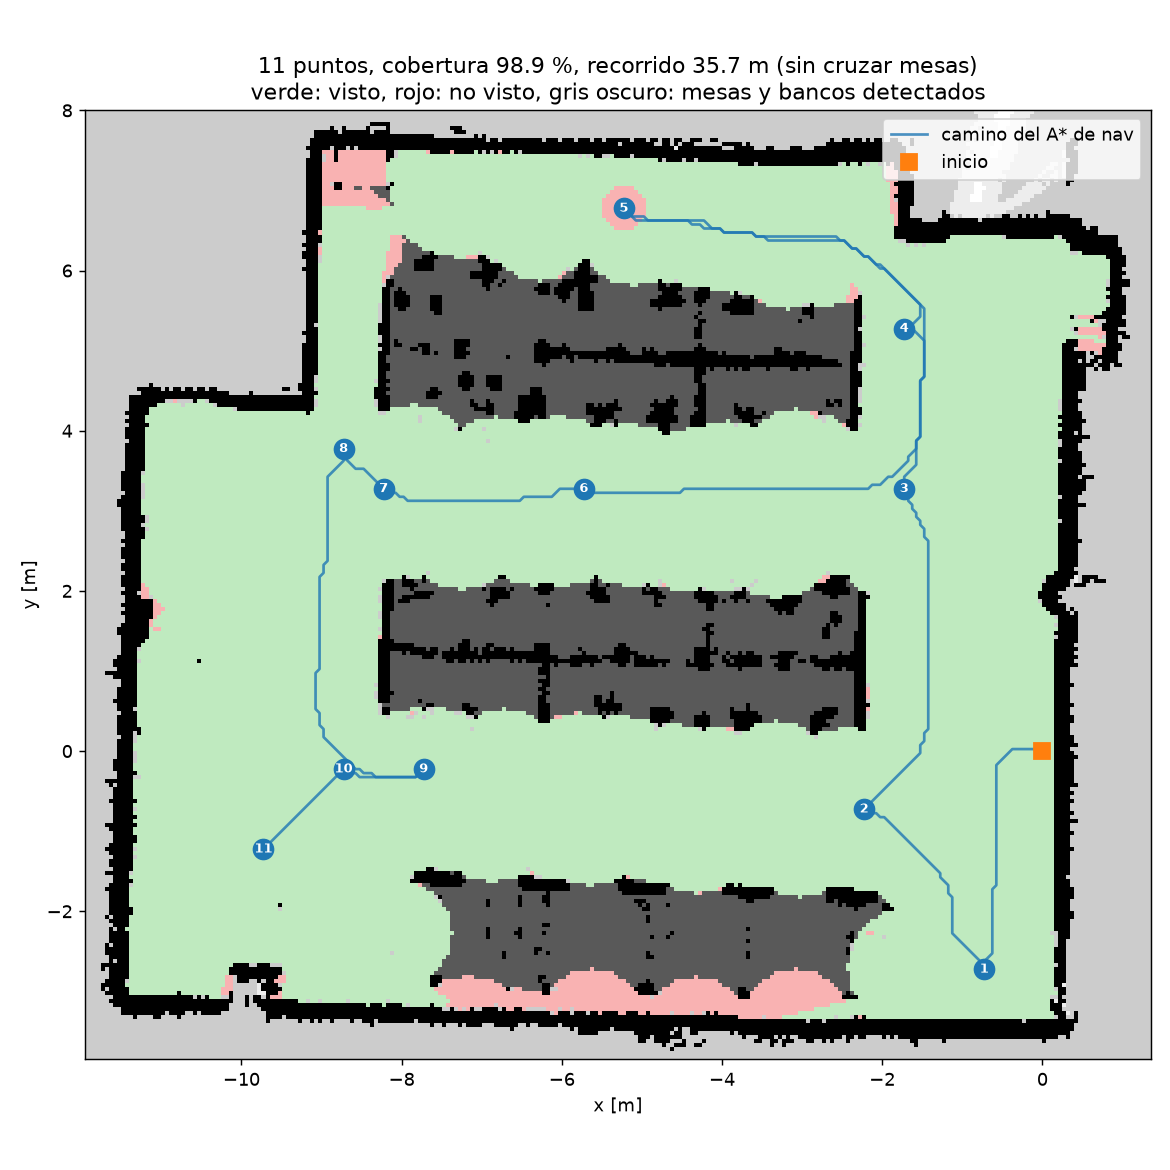
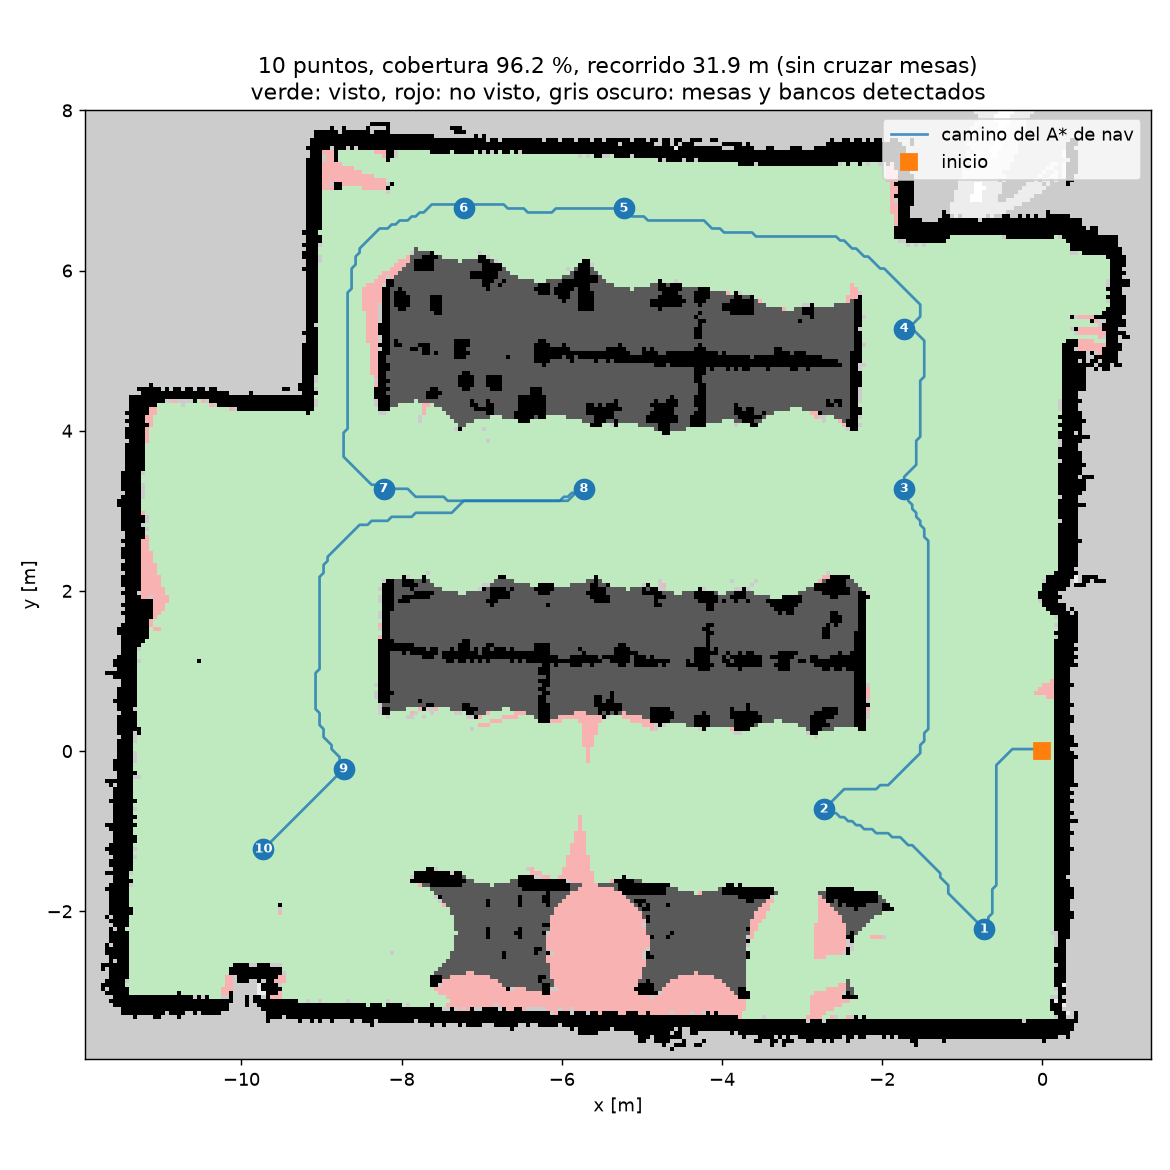
Keep the top-left passage open and approach cones from the nearest free spot
Clutter radius back to 0.60; viewpoint clearance also applies to approach poses.

diff --git a/mission/mission/core/cone_locator.py b/mission/mission/core/cone_locator.py
@@ -217,24 +217,39 @@ def open_segment(costmap: Costmap, a, cone) -> bool:
     return bool(inside.all() and (costmap.clearance[rows, cols] >= radius).all())
 
 
-def approach_pose(cone, pose: Pose2D, costmap: Costmap, reachable: np.ndarray, config: LocatorConfig):
+def approach_pose(cone, pose: Pose2D, costmap: Costmap, reachable: np.ndarray, config: LocatorConfig,
+                  clearance: float = 0.0):
     """Pose para quedar frente al cono, o None si no hay ninguna.
 
-    Candidatos en anillos alrededor del cono, entre approach_distance y
-    approach_max_distance. Se queda con los alcanzables desde el robot desde
-    los que podría avanzar en línea recta hasta el cono (`open_segment`), y
-    elige el de camino más corto desde el robot. El ángulo mira al cono.
+    Candidatos en anillos alrededor del cono, cada 15 cm desde
+    approach_distance hasta approach_max_distance. Valen los alcanzables desde
+    el robot, con al menos `clearance` de holgura a los obstáculos (la misma
+    regla que los puntos de observación: no pararse en pasillos angostos, como
+    entre bancos) y desde los que podría avanzar en línea recta hasta el cono
+    (`open_segment`). Se usa el anillo más cercano al cono que tenga alguno, y
+    en él el de camino más corto desde el robot: un cono en un pasillo angosto
+    se aproxima desde la boca del pasillo. El ángulo mira al cono.
     """
+    for radius in np.arange(config.approach_distance, config.approach_max_distance + 1e-9, 0.15):
+        goal = _best_on_ring(cone, radius, pose, costmap, reachable, config, clearance)
+        if goal is not None:
+            return goal
+    return None
+
+
+def _best_on_ring(cone, radius, pose, costmap, reachable, config, clearance):
+    """El mejor candidato a `radius` del cono, o None."""
     grid = costmap.grid
     candidates = []
-    for radius in np.linspace(config.approach_distance, config.approach_max_distance, 3):
-        for angle in np.linspace(-math.pi, math.pi, config.approach_angles, endpoint=False):
-            x, y = cone[0] + radius * math.cos(angle), cone[1] + radius * math.sin(angle)
-            col, row = grid.world_to_grid(x, y)
-            if not (0 <= col < grid.width and 0 <= row < grid.height) or not reachable[row, col]:
-                continue
-            if open_segment(costmap, (x, y), cone):
-                candidates.append((x, y))
+    for angle in np.linspace(-math.pi, math.pi, config.approach_angles, endpoint=False):
+        x, y = cone[0] + radius * math.cos(angle), cone[1] + radius * math.sin(angle)
+        col, row = grid.world_to_grid(x, y)
+        if not (0 <= col < grid.width and 0 <= row < grid.height) or not reachable[row, col]:
+            continue
+        if costmap.clearance[row, col] < clearance:
+            continue
+        if open_segment(costmap, (x, y), cone):
+            candidates.append((x, y))
     if not candidates:
         return None
     distances = path_distances(costmap, reachable, [(pose.x, pose.y)] + candidates)[0, 1:]

diff --git a/mission/tests/test_cone_locator.py b/mission/tests/test_cone_locator.py
@@ -161,8 +161,8 @@ class ApproachTests(unittest.TestCase):
         cone = (4.0, 2.5)
         goal = approach_pose(cone, Pose2D(1.0, 2.5, 0.0), costmap, reachable, self.config)
         distance = math.hypot(goal.x - cone[0], goal.y - cone[1])
-        self.assertGreaterEqual(distance, self.config.approach_distance - 0.01)
-        self.assertLessEqual(distance, self.config.approach_max_distance + 0.01)
+        # Con lugar libre alrededor, el anillo más cercano.
+        self.assertAlmostEqual(distance, self.config.approach_distance, places=2)
         self.assertLess(goal.x, cone[0])                       # del lado del robot
         self.assertAlmostEqual(math.atan2(cone[1] - goal.y, cone[0] - goal.x), goal.yaw)
         row, col = costmap.cell(goal.x, goal.y)
@@ -180,6 +180,19 @@ class ApproachTests(unittest.TestCase):
         # El A* del navegador de la etapa B llega por la puerta (y > 3,5), no por el hueco.
         path = plan(costmap, (2.0, 1.5), (goal.x, goal.y))
         self.assertGreater(max(y for _, y in path), 3.5)
+
+    def test_cone_in_a_narrow_aisle_is_approached_from_its_mouth(self):
+        # Pasillo de 0,8 m de ancho y 1,4 m de fondo (como entre dos bancos), con
+        # el cono adentro. Con la holgura de 0,5 m no se para adentro del pasillo.
+        grid = room(7.0, 6.0, walls=[(2.9, 0.4, 3.0, 1.8), (3.8, 0.4, 3.9, 1.8)])
+        costmap, reachable = self.plan(grid, (1.0, 4.5))
+        cone = (3.45, 1.0)
+        goal = approach_pose(cone, Pose2D(1.0, 4.5, 0.0), costmap, reachable, self.config, clearance=0.5)
+        self.assertGreater(goal.y, 1.8)                        # afuera del pasillo
+        self.assertLessEqual(math.hypot(goal.x - cone[0], goal.y - cone[1]), self.config.approach_max_distance + 0.01)
+        # Sin holgura se mete en el pasillo, a la distancia mínima.
+        inside = approach_pose(cone, Pose2D(1.0, 4.5, 0.0), costmap, reachable, self.config)
+        self.assertLess(inside.y, 1.8)
 
     def test_unreachable_cone(self):
         # Cono en una sala cerrada sin puerta.

diff --git a/mission/tests/test_exploration.py b/mission/tests/test_exploration.py
@@ -413,10 +413,11 @@ class ClassroomTests(unittest.TestCase):
             index = cell_of(self.grid, x, y)
             self.assertTrue(occupied_cells(self.grid).ravel()[index], (x, y))
 
-    def test_robot_cannot_get_between_the_benches(self):
+    def test_no_viewpoint_between_the_benches(self):
         # Franja de los bancos de abajo, debajo de la ruta principal.
         benches = box(self.grid, -7.5, -3.4, -2.5, -1.9)
-        self.assertLess(np.count_nonzero(self.reachable & benches) * RESOLUTION ** 2, 0.6)
+        for x, y in self.plan.viewpoints:
+            self.assertFalse(benches[self.costmap.cell(x, y)], (x, y))
 
     def test_corridors_stay_open(self):
         # Pasillo central entre los bloques de mesas y pasillo entre el bloque
@@ -425,6 +426,19 @@ class ClassroomTests(unittest.TestCase):
             corridor = box(self.grid, *region)
             self.assertGreater(np.count_nonzero(self.reachable & corridor) / np.count_nonzero(corridor),
                                0.5, region)
+
+    def test_top_left_passage_stays_open(self):
+        # Con clutter_radius de 0,64 o más, una pata suelta en (-8,1; 7,4) se une al
+        # bloque de mesas de arriba y tapa el paso de arriba a la izquierda. No se
+        # notaba porque la zona de arriba se alcanza también por la derecha: se
+        # cierra la derecha con una pared y se exige que siga alcanzable.
+        closed = self.original.clone()
+        wall = box(closed, -2.4, 4.45, 0.6, 4.55)
+        closed.log_odds[wall], closed.observed[wall] = 4.0, True
+        nav = NavConfig.load_yaml(Path(__file__).resolve().parents[2] / "nav/config/real.yaml")
+        _, costmap = prepare_map(closed, nav.planner, self.config)
+        reachable = main_component(costmap.traversable, costmap.cell(0.0, 0.0))
+        self.assertTrue(reachable[costmap.cell(-5.0, 6.8)])
 
     def test_central_corridor_is_covered(self):
         corridor = box(self.grid, -5.5, 2.5, -4.0, 3.9) & self.plan.targets

diff --git a/mission/mission/ros/mission_node.py b/mission/mission/ros/mission_node.py
@@ -185,9 +185,10 @@ class MissionNode(Node):
             return False
         reachable = main_component(self.costmap.traversable, self.costmap.cell(*start))
         tracker = CoverageTracker(Visibility(self.grid, exploration), plan.coverable)
-        locator = self.config.locator
+        locator, clearance = self.config.locator, exploration.viewpoint_clearance
         self.mission = Mission(plan.viewpoints, tracker,
-                               lambda cone, pose: approach_pose(cone, pose, self.costmap, reachable, locator),
+                               lambda cone, pose: approach_pose(cone, pose, self.costmap, reachable, locator,
+                                                                clearance),
                                self.config.mission)
         self.viewpoints = plan.viewpoints
         self.get_logger().info(f'Exploration plan: {json.dumps(plan.summary())}')

diff --git a/mission/mission/core/config.py b/mission/mission/core/config.py
@@ -107,10 +107,10 @@ class LocatorConfig:
     prior: float = 0.20
     confirm_probability: float = 0.97
     drop_probability: float = 0.05
-    # Pose de aproximación: entre approach_distance y approach_max_distance del
-    # cono, transitable, alcanzable y con línea de vista libre hasta el cono.
+    # Pose de aproximación: lo más cerca posible desde approach_distance, en
+    # anillos cada 15 cm, hasta approach_max_distance (ver approach_pose).
     approach_distance: float = 0.45
-    approach_max_distance: float = 0.90
+    approach_max_distance: float = 1.50
     approach_angles: int = 24
 
 

diff --git a/docs/decisiones/014-exploracion-por-puntos-de-observacion.md b/docs/decisiones/014-exploracion-por-puntos-de-observacion.md
@@ -30,7 +30,7 @@ Detalle de A:
 - **Objetivo:** las celdas libres conectadas con la zona adonde puede ir el robot. Es donde puede estar un cono.
 - **Candidatos:** celdas transitables del mapa de costos de `nav` (el mismo que usa el navegador, así llega a todos), cada 0,5 m, con al menos `viewpoint_clearance` de holgura a los obstáculos.
 - **Visibilidad:** rayos en 2D sobre el mapa que se cortan en la primera pared o zona desconocida, entre 0,3 m (mínimo de la cámara de profundidad) y 3 m.
-- **Selección codiciosa:** primero el candidato que más área ve, después el que más área nueva agrega, hasta ver el 98 % de lo que se puede ver desde algún candidato o hasta que el próximo agregue menos de 0,5 m². Es la aproximación clásica a cubrir un conjunto, que es NP-difícil.
+- **Selección codiciosa:** primero el candidato que más área ve, después el que más área nueva agrega, hasta ver el 95 % de lo que se puede ver desde algún candidato o hasta que el próximo agregue menos de 0,5 m². Es la aproximación clásica a cubrir un conjunto, que es NP-difícil.
 - **Orden:** vecino más cercano desde la pose inicial y después 2-opt, con distancias por la zona transitable (Dijkstra sobre la grilla). El camino real lo calcula el A* del navegador.
 
 ## Mesas y bancos
@@ -52,7 +52,7 @@ Detalle de A (`prepare_map`):
 2. **Cierre morfológico de los muebles** con un disco de radio `clutter_radius`: dilatar y erosionar. Dos muebles a menos de dos radios se unen; un paso más ancho no se cierra. Las paredes no entran, así el pasillo entre un mueble y la pared no se tapa (sin separarlas, el pasillo entre el bloque de mesas de arriba y la pared izquierda se cerraba).
 3. **Relleno** de los huecos encerrados de menos de `clutter_max_hole`: el interior de un bloque, no el aula entera, que también está encerrada por paredes.
 4. Los bloques se marcan como ocupados en una copia del mapa: tapan la vista, no son piso donde buscar y el mapa de costos los infla. El mapa de `nav` no cambia.
-5. **Holgura:** el robot no se para a mirar a menos de `viewpoint_clearance` de un obstáculo.
+5. **Holgura:** el robot no se para a mirar, ni a acercarse a un cono (017), a menos de `viewpoint_clearance` de un obstáculo. Es lo que lo mantiene fuera de los pasillos angostos entre bancos que el cierre no tapa.
 
 Se comprobó que el A* de `nav`, sobre el mapa original, ya rodea los bloques detectados en los trayectos entre puntos: ningún punto de esos caminos cae en ellos.
 
@@ -84,7 +84,7 @@ Sin detectar mesas, con recorrido en línea recta (106 m² de piso como objetivo
 
 Lo que faltaba eran casi todo sombras de patas, y dos puntos caían entre los bancos.
 
-Calibración de la detección. Criterios, sin referencia externa: que los bloques no tapen pasillos (área transitable perdida fuera de los bloques), que el robot no pueda meterse entre los bancos (área alcanzable debajo de la ruta principal) y el tamaño del plan. Se probó con `viewpoint_clearance` 0,45 y 0,50 y en tres mapas del mismo bag (`intento3_corregido`, `intento3` y el replay E16): todos dan 9 a 11 puntos, 95 a 98 % de cobertura y 29 a 36 m. Con `viewpoint_clearance` 0,50 y `coverage_target` 0,97, en `intento3_corregido`:
+Calibración de la detección. Criterios, sin referencia externa: que los bloques no tapen pasillos, que el robot no pueda meterse entre los bancos (área alcanzable debajo de la ruta principal) y el tamaño del plan. Se probó con `viewpoint_clearance` 0,45 y 0,50 y en tres mapas del mismo bag (`intento3_corregido`, `intento3` y el replay E16): todos dan 9 a 11 puntos, 95 a 98 % de cobertura y 29 a 36 m. Con `viewpoint_clearance` 0,50 y `coverage_target` 0,97, en `intento3_corregido`:
 
 | `clutter_radius` (m) | Puntos | Recorrido (m) | Bloques (m²) | Transitable perdido fuera de los bloques (m²) | Alcanzable entre los bancos (m²) |
 |---|---|---|---|---|---|
@@ -94,19 +94,24 @@ Calibración de la detección. Criterios, sin referencia externa: que los bloque
 | 0,65 | 10 | 34,6 | 21,5 | 0,14 | 0,40 |
 | 0,70 | 10 | 34,6 | 21,9 | 0,10 | 0,37 |
 
-Con 0,60 los bancos quedan en tres bloques con pasillos entre medio adonde el robot puede llegar. Con 0,65 la fila de bancos es un solo bloque. De ahí en adelante casi no cambia, pero un radio mayor cierra pasos más anchos (dos radios = 1,3 m con 0,65), lo que en otro mapa puede tapar un pasillo real. **Elegí 0,65**, el menor radio que cierra los bancos. Con 0,97 de cobertura el pasillo entre el bloque de mesas de arriba y la pared izquierda quedaba visto en un 56 %; con 0,98, en un 83 %, a cambio de un punto y 1,1 m más:
+Con 0,60 los bancos quedan en tres bloques con pasillos entre medio; con 0,65 la fila de bancos es un solo bloque. Primero se eligió 0,65. **Error de esa calibración:** la columna "transitable perdido" mide área, no si se corta un paso. Al armar el escenario de Gazebo con una pared extra a la derecha (`mission/worlds/aula_hueco.yaml`), la zona de arriba quedó inalcanzable: desde 0,64 una pata suelta en (−8,1; 7,4), a 1,3 m del bloque de mesas de arriba, se une a él y tapa el paso de arriba a la izquierda. Con el mapa original no se notaba porque esa zona se alcanza también por la derecha. Un test (`test_top_left_passage_stays_open`) cierra la derecha y exige que siga alcanzable.
+
+No hay un radio que cierre los bancos sin tapar ese paso. **Elegí 0,60**, con margen respecto de 0,64. Los pasillos entre bancos que quedan abiertos los cubre la holgura: ningún objetivo de la misión (punto de observación o aproximación a un cono) cae ahí.
+
+Con 0,60 los dos pasillos entre mesas quedan vistos al 100 % ya desde 0,95 de cobertura:
 
 | `coverage_target` | Puntos | Cobertura | Recorrido (m) |
 |---|---|---|---|
-| 0,97 | 10 | 97,7 % | 34,6 |
-| 0,98 (elegido) | 11 | 98,9 % | 35,7 |
-| 0,99 | 12 | 99,5 % | 38,7 |
+| 0,95 (elegido) | 10 | 96,2 % | 31,9 |
+| 0,97 | 11 | 97,4 % | 32,2 |
+
+Con 0,98 da lo mismo que con 0,97: el siguiente punto agregaría menos de 0,5 m².
 
 Plan elegido (`mission/config/real.yaml`), con los caminos del A* de `nav`:
 
 ![Puntos de observación sobre el aula](../../mission/artifacts/viewpoints_intento3.png)
 
-Lo que queda sin ver es la franja entre la fila de bancos y la pared de abajo, adonde el robot no llega, y bordes chicos.
+Lo que queda sin ver es un pasillo ancho entre bancos y la franja entre los bancos y la pared de abajo, adonde el robot no llega, y bordes chicos.
 
 En el primer punto, sin haber visto nada, la vuelta completa pide unas 9 direcciones. Después de mirarlas no queda ninguna.
 
@@ -122,10 +127,10 @@ PYTHONPATH=../slam:../nav:. python3 scripts/plot_viewpoints.py \
 ## Limitaciones
 
 - Visibilidad 2D en el plano del lidar: las patas que quedan fuera de los bloques siguen tapando de más.
-- Los bloques no distinguen una mesa de cualquier otro grupo de obstáculos cercanos, y debajo de ellos no se busca: un cono puesto debajo de una mesa o un banco no se buscaría.
+- Los bloques no distinguen una mesa de cualquier otro grupo de obstáculos cercanos, y debajo de ellos no se busca: un cono puesto debajo de una mesa, entre bancos o al fondo de un pasillo entre bancos no se buscaría ni se aproximaría.
 - Si el mapa no tiene exterior desconocido (un aula sin borde gris), todo obstáculo cuenta como mueble y el cierre puede tapar pasillos junto a las paredes.
 - La cámara se supone en el centro del robot.
-- El plan cuenta solo lo que se ve desde los puntos, no en el camino: un punto aislado, como el 5, muestra su propio disco ciego de 0,3 m en rojo. En la misión, `CoverageTracker` también registra lo visto en movimiento.
+- El plan cuenta solo lo que se ve desde los puntos, no en el camino: un punto aislado muestra su propio disco ciego de 0,3 m en rojo. En la misión, `CoverageTracker` también registra lo visto en movimiento.
 - Un cono justo sobre un punto de observación: como el robot solo avanza y gira, la cámara mira hacia el punto durante la aproximación y el detector, que corre también en movimiento, debería verlo antes de llegar. Si el cono mide más que la altura del lidar (18 cm), además lo frena la parada de seguridad de B. Si mide menos y el detector falla en ese tramo, el robot puede chocarlo. La máquina de estados tiene que interrumpir la exploración al detectar y saltear un punto que el navegador abandone. Probar en Gazebo con un cono sobre un punto.
 - Las distancias del recorrido no incluyen el costo de cercanía del A*: el camino real puede ser algo más largo.
 - `camera_fov` y `view_range` son supuestos: el campo de visión se confirma con `camera_info` en la visita 1 y el alcance con el detector sobre `bag_conos`.

diff --git a/docs/decisiones/017-ubicacion-y-confirmacion-del-cono.md b/docs/decisiones/017-ubicacion-y-confirmacion-del-cono.md
@@ -36,10 +36,12 @@ No contar como evidencia en contra lo que está detrás de una pared importa par
 | A. Punto a cierta distancia del cono con línea de vista libre | Simple | Por un hueco en la pared hay línea de vista: el robot quedaría frente al hueco, del lado equivocado |
 | B. Punto desde el que el robot podría avanzar en línea recta hasta el cono: holgura al menos igual al radio del robot a lo largo del segmento | Del lado equivocado de la pared el segmento pasa por el hueco, más angosto que el robot | Un cálculo más |
 
-Elegí B. El primer intento fue A y su test falló justo en el caso de la consigna: eligió un punto pegado a la pared mirando por el hueco. Candidatos: 24 direcciones alrededor del cono a 0,45, 0,675 y 0,9 m. Se queda con los alcanzables desde el robot que cumplen B, y elige el de camino más corto (Dijkstra). El ángulo mira al cono. Si no hay ninguno, la misión lo anota como inalcanzable y sigue explorando.
+Elegí B. El primer intento fue A y su test falló justo en el caso de la consigna: eligió un punto pegado a la pared mirando por el hueco. Candidatos: 24 direcciones alrededor del cono, en anillos cada 15 cm desde 0,45 hasta 1,5 m. Valen los alcanzables desde el robot que cumplen B y tienen la misma holgura que los puntos de observación (`viewpoint_clearance`, 014), para no pararse en pasillos angostos entre bancos. Se usa el anillo más cercano al cono que tenga alguno, y en él el de camino más corto (Dijkstra): con lugar libre queda a 0,45 m, y un cono cerca de un lugar angosto se aproxima desde más lejos, hasta 1,5 m. El ángulo mira al cono. Si no hay ninguno, la misión lo anota como inalcanzable y sigue explorando.
+
+Primero los anillos iban hasta 0,9 m y se elegía el de camino más corto entre todos: podía quedar a 0,9 m teniendo lugar a 0,45 m. Al probar un cono dentro de un pasillo entre bancos, con la holgura no había ningún candidato a 0,9 m o menos.
 
 ## Datos
 
-19 tests en `mission/tests/test_cone_locator.py`. Con una cámara a 500 px de focal: un cono centrado a 2 m queda a 2 m adelante del robot, uno 100 px a la derecha queda 0,40 m a la derecha, y la posición sigue el ángulo del robot. Pared con un hueco de 15 cm y una puerta de 1 m: el cono se ve por el hueco, el punto de aproximación queda del lado del cono y el camino del A* de la etapa B pasa por la puerta.
+20 tests en `mission/tests/test_cone_locator.py`. Con una cámara a 500 px de focal: un cono centrado a 2 m queda a 2 m adelante del robot, uno 100 px a la derecha queda 0,40 m a la derecha, y la posición sigue el ángulo del robot. Pared con un hueco de 15 cm y una puerta de 1 m: el cono se ve por el hueco, el punto de aproximación queda del lado del cono y el camino del A* de la etapa B pasa por la puerta. Un cono al fondo de un pasillo de 0,8 m se aproxima desde la boca del pasillo con holgura de 0,5 m, y desde adentro sin ella.
 
 Pendiente: medir en `bag_conos` las tasas de acierto y falsa alarma y el tamaño de los conos, y el error de posición del cono contra una medida con cinta.
